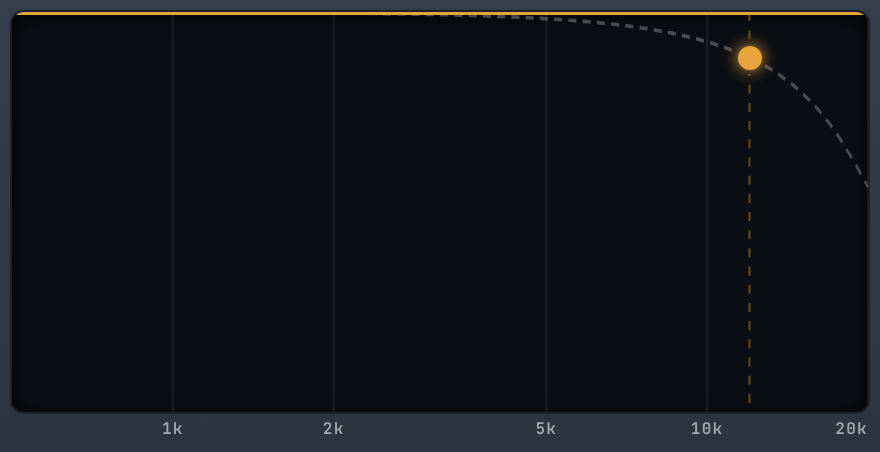
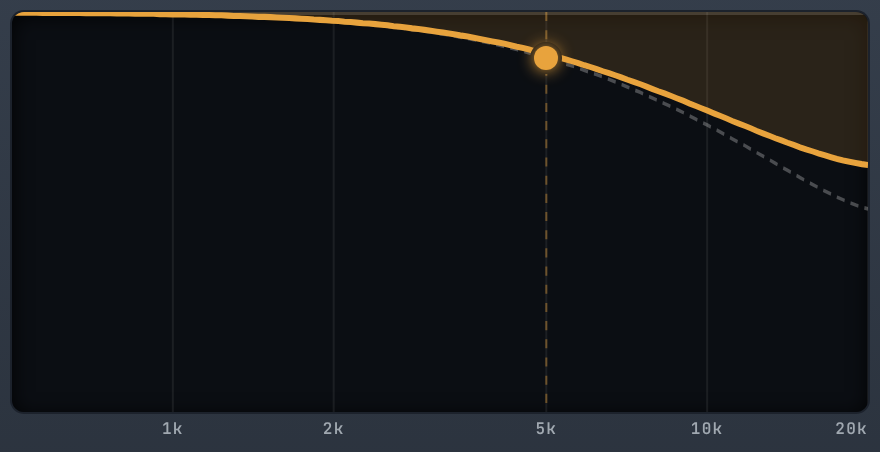
Help screenshot: Hi-Freq Limiter with active reduction
Shot at 5 kHz / −14 dB so the HF reduction meter and curve show the shelf
working on the vocal; the default barely touches its top end.

Claude-Session: https://claude.ai/code/session_019XGBqmyr3FoMuAYjhaw5LX

diff --git a/CLAUDE.md b/CLAUDE.md
@@ -324,7 +324,7 @@ These apply only to the `acx_audiobook` preset:
   - The panel: POP and BURST reduction bars, the De-Esser's activity scope (`legend` prop: amber POP, lavender BURST — the kernel writes the ring's plosive mark on a burst cut, its input peak delayed to line up), POPS / BURSTS event counters with RESET, DELTA, three factory presets (Default, Pops Only, Close Mic — the last two reasoned, not auditioned). ⚠ Every threshold and Sensitivity line is reasoned from synthetic pops on synthetic voice; the default POP catches a 45 Hz thump of ~0.3 peak on a −18 dBFS-RMS vowel, ~0.1 at Sensitivity 100.
 - **Noise Reduction** (`noiseReductionParams.js` — shared with the server —, `useNoiseReduction.js`, `NoiseReductionModal.vue`, `api/noiseReduction.js`; server `pipeline/spotNoiseReduce.js`) — DF3 / RNNoise / Both on the selection, shown as the Clean / Deep Clean passes. Settings: the two pass switches, Clean's **Max reduction** (`atten_lim_db` 3–48 dB, 48 = uncapped, default 18 = the chain's heavy tier), RNNoise **Protect consonants** (the ACX preset's Silero VAD gate, threshold 0.7 / 1 ms / 2 frames; one mask from the mono mixdown shared by every channel), **Mix**. ⚠ It does NOT call the `noiseReduce` stage: that stage picks the cap from a noise-floor tier, may skip itself, and peak-renormalises afterwards — a spot edit wants the user's cap and the level left exactly as the model returned it. Channels are denoised one at a time (RNNoise is mono-only), the result resampled back to the upload's rate and length-matched. Not chainable (no live node) and one copy only. Plan feature `noiseReduction` (`offline: true`): Pro only, no free preview, refused by the server at any length. Not auditioned on real material in this repo's sandbox (no torch); the plumbing is tested with stub models (`server/test/spotNoiseReduce.test.js`)
 - **Phone support** (November 2026, not a mobile redesign; emulated touch only, not yet tried on real devices): the waveform, overview and scrollbar take POINTER events — a finger taps to seek, drags to select / adjust an edge, long-presses for the edit menu and pinches to zoom (`src/audio/touchGestures.js`); nothing commits on touch DOWN, so a pinch or long press never clears the selection it is meant to act on. ⚠ Lifting a long press sends a ghost mousedown + click to whatever is under the finger — the menu opens there — so the waveform swallows the next click; without it lifting ran Split. A `compact:` Tailwind variant (`main.css`: max-height 520px OR max-width 640px; scoped CSS repeats the query) trims the chrome so a 390 px tall landscape phone gets a 148 px waveform instead of 49. On the same viewport FloatingWindow becomes a full-screen SHEET (`src/ui/windowSheet.js`): no drag or resize, the FACEPLATE alone scaled with CSS `zoom` to fit the width (floor 0.45), header and footer full size. Below 640 px wide the rail is a bottom sheet and a dismissible rotate hint shows. Any new drag control needs `touch-action: none` or a finger scrolls the sheet instead. `npm run smoke` drives a touch phone pass.
-- **Effect help pages** (November 2026): each plugin window's `?` opens `/help/<slug>/` in a NEW TAB — the slug is the PRODUCT name (`la-vintage-2a`, `helpSlug`), never the old window id; a rename keeps the old URL working through `oldSlugs` on its `HELP_META` entry (the build writes a copy there too: `reso-soothe`, `phatss`) (it was an overlay inside the window, cramped and different in every window size). A second Vite entry (`help/index.html` → `src/help/`) that imports only `src/content/help/` — never the editor; `/help/` is an index by category. The build writes a copy of the entry at `help/<id>/index.html` per published page, so no host rewrite is needed; dev and preview rewrite the same paths. Pages follow the Waves manuals' layout (owner, November 2026): INTRO (`intro`, 1–3 paragraphs: what it is, what it is modelled on, what it is for), QUICK START (`quickStart`), then INTERFACE AND CONTROLS — the whole window as a picture, then per control a cropped picture, description, `details`, `range` and `default`. Pictures come from `npm run help:shots [-- <id>…]` (Playwright on the dev server, benches hidden via `data-bench`): it crops each control's `data-help="<shot>"` element on the panel into `public/help/shots/<id>/` and writes `src/content/help/shots/<id>.json`; re-run it for an effect whose panel changed. Shots are LIVE (owner, November 2026: idle panels read as dead): each window is shot while its own Preview plays the clip through it, looped, so meters, scopes and reduction displays are lit — the owner's clips in `scripts/help-shots-audio/` (`voice.wav`, `drums.wav` for PHATaSS and Cambridge Inflator; gitignored, for screenshots ONLY, never the marketing pages' Hear it audio), the generated probe when absent. Effects idle at their default get shot settings first (`SHOT_SETTINGS`: PHATaSS and EQ from their marketing samples, Reso Tame's threshold at 13 so the Resonance view shows cuts); VoxPressor plays 10 s so its measurement lands, and Hum Remover presses Analyse first. The manifests are written after the browser closes — a file changing under `src/` made the dev server reload the editor mid-run. The test fails on a `shot` no panel carries. Titles / categories / `release: 'dev'` live in `HELP_META` (the registry imports every faceplate, so the page cannot read it) and `test/ui/helpContent.test.js` checks them against `registry.js`; dev-only effects are never LISTED (index / sidebar) in any build and get no page or screenshots in production; a dev build still serves their page so the `?` works.
+- **Effect help pages** (November 2026): each plugin window's `?` opens `/help/<slug>/` in a NEW TAB — the slug is the PRODUCT name (`la-vintage-2a`, `helpSlug`), never the old window id; a rename keeps the old URL working through `oldSlugs` on its `HELP_META` entry (the build writes a copy there too: `reso-soothe`, `phatss`) (it was an overlay inside the window, cramped and different in every window size). A second Vite entry (`help/index.html` → `src/help/`) that imports only `src/content/help/` — never the editor; `/help/` is an index by category. The build writes a copy of the entry at `help/<id>/index.html` per published page, so no host rewrite is needed; dev and preview rewrite the same paths. Pages follow the Waves manuals' layout (owner, November 2026): INTRO (`intro`, 1–3 paragraphs: what it is, what it is modelled on, what it is for), QUICK START (`quickStart`), then INTERFACE AND CONTROLS — the whole window as a picture, then per control a cropped picture, description, `details`, `range` and `default`. Pictures come from `npm run help:shots [-- <id>…]` (Playwright on the dev server, benches hidden via `data-bench`): it crops each control's `data-help="<shot>"` element on the panel into `public/help/shots/<id>/` and writes `src/content/help/shots/<id>.json`; re-run it for an effect whose panel changed. Shots are LIVE (owner, November 2026: idle panels read as dead): each window is shot while its own Preview plays the clip through it, looped, so meters, scopes and reduction displays are lit — the owner's clips in `scripts/help-shots-audio/` (`voice.wav`, `drums.wav` for PHATaSS and Cambridge Inflator; gitignored, for screenshots ONLY, never the marketing pages' Hear it audio), the generated probe when absent. Effects idle at their default get shot settings first (`SHOT_SETTINGS`: PHATaSS and EQ from their marketing samples, Reso Tame's threshold at 13 so the Resonance view shows cuts, the Hi-Freq Limiter at 5 kHz / −14 dB so its reduction meter is engaged); VoxPressor plays 10 s so its measurement lands, and Hum Remover presses Analyse first. The manifests are written after the browser closes — a file changing under `src/` made the dev server reload the editor mid-run. The test fails on a `shot` no panel carries. Titles / categories / `release: 'dev'` live in `HELP_META` (the registry imports every faceplate, so the page cannot read it) and `test/ui/helpContent.test.js` checks them against `registry.js`; dev-only effects are never LISTED (index / sidebar) in any build and get no page or screenshots in production; a dev build still serves their page so the `?` works.
 - **Effect marketing pages** (November 2026, owner; LA Vintage 2A and VoxPressor first, to settle the design, then every production processing effect — the Spectrum Analyzer and Effect Chain process nothing and have none; a dev-only effect, e.g. Saturation Workbench, has its page in dev builds only): `/plugins/<slug>/`, a third Vite entry (`plugins/index.html` → `src/marketing/`) built like the help pages, at the same slug, plus per-page <title>, description, Open Graph and schema.org JSON-LD written at build (`SITE_URL` makes canonical / image URLs absolute). Content is data in `src/content/marketing/<id>.js` (sections, owner, November 2026: hero → Hear it → OVERVIEW — a heading of the page's own (`overviewTitle`, not the word "Overview"), `overview` (exactly two paragraphs, the first a brighter lead) over a numbered two-column list of `features` `{ title, text }`, all in ONE centred 960 px block, the heading and both paragraphs centred line by line over the list (owner, November 2026; design 3b's left-edge reading column, `docs/design/marketing/Overview_Options.dc.html`, was tried and read as too weird); the "Why …" cards and "Works well with" were removed; it sat above Hear it until the owner moved the audio first — → the tour → At a glance); the interactive screenshot's hotspots ARE the help entry's controls, placed by the `at` box `npm run help:shots` now records per control. The hero and the tour show the FACEPLATE alone (`face.jpg`, the window's `.win-face`, also written by `help:shots` with its offset in the window; the full window read as a screen grab — selection readout, Preview / Apply, ✕), hotspot boxes mapped onto it by `spotOnFace` (clamped at the edge, dropped when mostly off it). The tour's hotspots, badges, caption number and selected row are AMBER (`--pt-accent` #e8a33d, the editor's selected-thing colour; owner, November 2026 — they were the page's cyan). Tour badges sit inside a large box's corner and BESIDE a short one (`badgePlace`; on top they hid lamps and switches, outside every corner they landed on neighbours); under 640 px only the selected control is outlined. Features are 10–12 items. COPY IS SOUND FIRST (owner, November 2026): headline, lead paragraph and the top of the list sell the character and the outcome; convenience (alignment, auto makeup, guards, lookahead) is one sentence and the bottom of the list. Emulations (LA Vintage 2A, LA Classic 76, Air Boost, Cambridge Inflator) may borrow what is commonly said about the original and promise that kind of outcome, never a replica; the rules are in the index's VOICE block. The A/B player (`ABPlayer.vue`) plays the dry and processed takes in lock-step through two gains (ON / BYPASS is a 25 ms fade, optional level match). The takes come from `npm run marketing:render`: dry sources in `marketing/samples/<slug>/<sample>.wav` (gitignored), rendered through the REAL kernels the way Apply does (alignment, makeup solve / `measureVoxPressor`, latency trimmed — mirror any change to those apply paths there), encoded identically to MP3 so the pair stays aligned. Each page's renderer is its own module, `scripts/marketing-renderers/<id>.mjs`; a page without one (Auto Leveler and Noise Reduction need the server's VAD / neural models) plays no audio and hides Hear it. An OFFLINE effect's hero reads "Included with Pro", not "Preview free". **Try it on this clip** (`useTryOut.js`, `tryOutUrl` / `tryOutFromSearch` in the marketing index): the hero and the player link to `/?try=<slug>&clip=<sample>`; the editor fetches that sample's dry take at load and the empty state offers it, and ONE click imports it, selects all, writes the sample's settings through `writePluginSettings`, opens the effect's window and starts playback — a click because no AudioContext may start before a gesture. The clip is looked up in the page's own sample list, never taken as a URL; the query is stripped once read. "Open the editor" (top bar, bottom panel) is the plain editor. `src/content/help/meta.js` holds the help titles / slugs so the editor can resolve a slug without bundling the help text. ⚠ The clips shipped first are synthetic TTS placeholders, labelled on the page; `test/ui/marketingContent.test.js` pins the links between content, help, screenshots and audio
 - **Toolbar categories** (`src/ui/registry.js`): **Edit · Level · Dynamics · Tone · Fix** (id `clean`) (+ Master in dev). Edit = Clipboard / Arrange (Trim, Split, Silence), in the rail; Level = Peak / Loudness Normalize, plus Fade and Volume (rail views, the one exception to "Level opens windows"); Dynamics = Auto Leveler, compressors, Soft Clipper, Cambridge Inflator; Tone = EQ, Air, Reso Tame (moved from Fix, November 2026), PHATaSS, saturators; Fix = Noise Reduction, De-Esser, HF Limiter, Hum Remover, plosives, with the Spectrum Analyzer last under Analysis — all four open as windows. Split is an Edit operation, not a category. Plugin Chain has `category: null`: its door is the toolbar's Chain button, and the palette still finds it. Category icons are design 1a "Studio objects" (`docs/design/toolbar-icons/`: scissors, fader, compression arrows, bell, wand, dial), their own `cat*` keys in `icons.js` so the operations that share the old glyphs keep them; the Chain button keeps `chain`.
 - **Release gating** (`src/ui/registry.js`): an operation marked `release: 'dev'` is shown under `vite dev` and in builds made with `VITE_DEV_PANELS=1`, and hidden from production — toolbar, rail, command palette and window layer all read the filtered `OPERATIONS`. Categories gate the same way (`release: 'dev'` on a `CATEGORIES` entry): the **Master** toolbar category is dev-only. Hidden today: Scheps Parallel, Tube Saturation, Saturation Workbench, the Sibilance Editor (registry id `clip-gain-deesser`), VoiceRx, Plosive Tamer (and the Modula Kit gallery). Shipping one is deleting its `release` line and the matching entry in `test/ui/releaseGating.test.js`. ⚠ Hidden, not stripped: the component is still in the bundle, only unreachable. The placeholder Noise Reduction and Remove Silence windows (no DSP) were REMOVED; `noise-reduction` is now the real, server-backed plugin (below).
